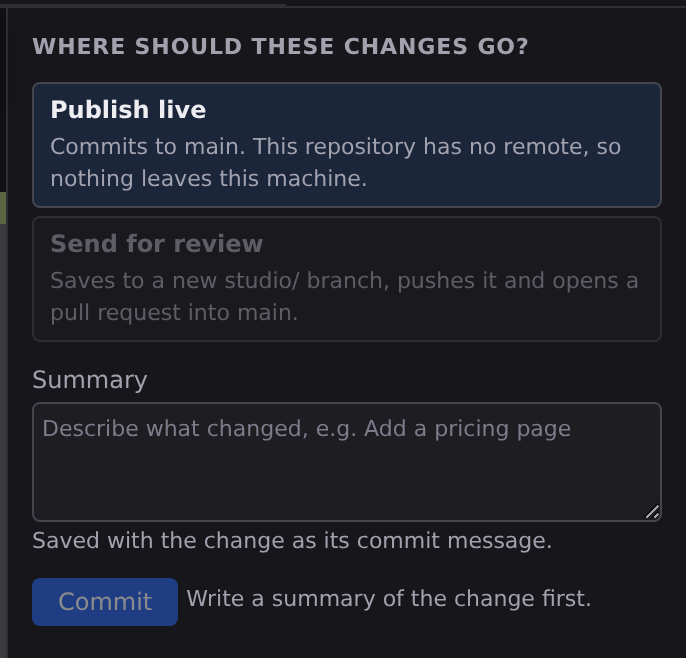
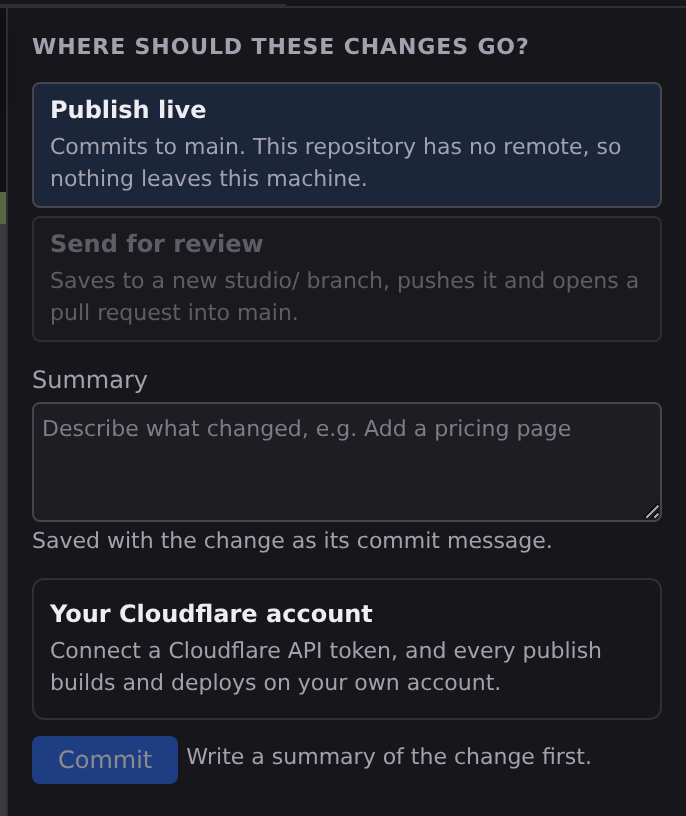
feat(studio): Review changes says where the site is hosted, and Hosting numbers its setup steps (#587)

diff --git a/packages/studio/tests/publish-workspace.test.ts b/packages/studio/tests/publish-workspace.test.ts
@@ -680,6 +680,13 @@ describe("Hosting", () => {
     expect(part("hosting-summary")).not.toBeNull();
   });
 
+  test("Review changes says where a publish goes, beside the choice of destination", async () => {
+    install({ cfApi: async () => [], cfConnect: async () => null });
+    await drawReview();
+    expect(part("host-card-name")?.textContent).toBe("Jx Cloud, on Cloudflare");
+    expect(part("host-card-text")?.textContent).toContain("every publish builds and deploys");
+  });
+
   test("Deploys with a reachable host and no provider says to connect one", async () => {
     install({ cfApi: async () => [] });
     shell.publish.tab = "deploys";
@@ -687,6 +694,25 @@ describe("Hosting", () => {
     expect(host.querySelector('[part="deploy-history"] [part="empty-message"]')?.textContent).toBe(
       "Connect a host under Hosting, and every deployment it makes is listed here.",
     );
+  });
+
+  test("Hosting is three numbered steps, each saying whether it is done", async () => {
+    shell.publish.tab = "hosting";
+    current = repo(FILES, { remotes: [] });
+    const { refreshGitStatus } = await import("../src/publish/source-control");
+    await refreshGitStatus();
+    await draw();
+    expect(part("setup-title")?.textContent).toBe("Set up publishing");
+    expect(parts("step-number").map((n) => n.textContent)).toEqual(["1", "2", "3"]);
+    // No remote, no host, and no address yet: nothing is done.
+    expect(parts("step-state").map((mark) => mark.dataset.state)).toEqual(["todo", "todo", "todo"]);
+    pw.detachPublishWorkspace("primary");
+    current = repo(FILES);
+    const { projectState } = await import("../src/state");
+    projectState!.projectConfig!.url = "https://example.com";
+    await refreshGitStatus();
+    await draw();
+    expect(parts("step-state").map((mark) => mark.textContent)).toEqual(["Done", "To do", "Done"]);
   });
 
   test("where the project is saved follows the repository's state", async () => {

diff --git a/packages/studio/src/publish/publish-workspace.ts b/packages/studio/src/publish/publish-workspace.ts
@@ -96,13 +96,14 @@ import type {
   CommandButtonRow,
   DeploymentRow,
   PublishCheckRow,
+  PublishLayout,
   PublishWorkspaceActions,
   PublishWorkspaceSurfaceHandle,
-  PublishLayout,
   PublishWorkspaceView,
   ReviewChangeView,
   ReviewItemRow,
   ReviewNoticeView,
+  SetupStepState,
 } from "../surfaces/publish-workspace";
 
 // ─── Deployments ─────────────────────────────────────────────────────────────
@@ -605,6 +606,11 @@ function sourceCommandIds(): string[] {
   return platformHostsGit() ? ["git.signInToGithub"] : ["git.push", "git.signInToGithub"];
 }
 
+/** A Hosting setup step as its mark draws it. */
+function setupStep(done: boolean): SetupStepState {
+  return done ? { label: "Done", state: "done" } : { label: "To do", state: "todo" };
+}
+
 /** The host block: which host, and what connecting it buys. */
 function hostView(): Pick<PublishWorkspaceView, "hostSummary" | "hostTitle"> {
   const deploy = currentDeploy();
@@ -674,6 +680,10 @@ export function publishWorkspaceView(
   return {
     ...deploysState(),
     ...hostView(),
+    // A host builds from a remote; a host whose git is the remote's has one by construction.
+    stepAddress: setupStep(address !== ""),
+    stepHosted: setupStep(deploy !== undefined),
+    stepSaved: setupStep(hosted || remote !== ""),
     allIncluded: count > 0 && staged === count,
     blocker,
     branchNote: hosted

diff --git a/packages/studio/src/surfaces/publish-workspace.ts b/packages/studio/src/surfaces/publish-workspace.ts
@@ -133,6 +133,12 @@ export interface BranchRow {
 }
 
 /** Everything the document draws, as one value. */
+/** One Hosting setup step's state, and the word it is marked with. */
+export interface SetupStepState {
+  state: "done" | "todo";
+  label: string;
+}
+
 export interface PublishWorkspaceView {
   /** Which part this mount draws: the home, or one region of Review changes' stage. */
   layout: PublishLayout;
@@ -209,6 +215,13 @@ export interface PublishWorkspaceView {
   sourceCommands: CommandButtonRow[];
   hostTitle: string;
   hostSummary: string;
+  /**
+   * Hosting's three setup steps (studio.md §22.8), each `done` or `todo`: the project saved where a
+   * host can build it, a host connected, and an address for the site.
+   */
+  stepSaved: SetupStepState;
+  stepHosted: SetupStepState;
+  stepAddress: SetupStepState;
   hostCommands: CommandButtonRow[];
   domainState: "set" | "none";
   domain: string;
@@ -299,6 +312,9 @@ export function emptyPublishWorkspaceView(): PublishWorkspaceView {
     hostCommands: [],
     hostSummary: "",
     hostTitle: "",
+    stepAddress: { label: "", state: "todo" },
+    stepHosted: { label: "", state: "todo" },
+    stepSaved: { label: "", state: "todo" },
     includedLabel: "",
     items: [],
     lastUpdated: "",

diff --git a/specs/studio.md b/specs/studio.md
@@ -2354,7 +2354,7 @@ The Styles workspace is Project Styles (§7) given a frame: `project.json` as th
 
 **The Publish home** is a surface (`src/surfaces/publish-workspace.json`) with four sub-tabs.
 
-**Review changes** is three columns under the workspace's heading row, with the comparison of one change in the middle. **The list** on the left is the git status (every untracked file on its own rather than as its collapsed folder), each change stated as the thing it is on the site rather than as a file: a tag for what happened (**NEW**, **EDIT**, **DELETE** or **RENAME**, a word on a tint, never colour alone), the name the Site panel gives it (a page by its route, **Home** or **Pricing**; an entry by its file; a component, a template or a stylesheet by its name; media and other files by their file name), and its kind with its address where it has one (**Page · /pricing**, **Post · Posts**, **Component**, **Template**, **Media**, **Project file**), pages first, then entries, components, templates, styles, media and the project's other files (`publish/review-changes.ts`). Each row's checkbox stages or unstages it and its Discard asks first; picking the row shows it in the centre, and the list's foot holds the checks and the remote's controls. **The centre** heads the change with its tag, its name, its address and one sentence saying what publishing it does ("A new page. It goes live at /pricing."; for a component or a template, that every page using it changes with it), with the Compare bar beside it (§21.2), and below them the comparison itself: the two artboards, named **Last published** and **After publishing** (**Not published yet** for a new file, **Removed by publishing** for a deleted one), fitted to the column's width each time a change arrives, or the Code half (§21.3). A change with no comparison shows why instead: an image is shown as the image, and a rename says it has no comparison (§21.4). The centre always shows a change: the one picked, or the first when the pick has been published, discarded or never made. It is the Publish home tab itself, put in `git-diff` while Review changes has a change to show and back in its own mode otherwise, so there is no comparison tab to leave and nothing in Publish needs **Back**; the stage frames the boards between the two columns, which scroll themselves and take neither the canvas's pan nor its zoom, and draws no zoom pod, because the publish column's primary button stands where it would float. The artboards are drawn as a view of the compared file, so a page is wrapped in its layout and its components resolve from its path. Loading, a project with no repository, nothing to publish and the other three sub-tabs are the home's own surface. A change is included (staged) the first time Review changes shows it, so a change set nobody has curated opens with every change included, as the quick dialog publishes it; a file the author then leaves out stays out, and a path that leaves the status (committed or discarded) is new again when it next changes. The checks (the deploy checklist's next step, and a build check where the host can run one) are each marked by a kit-manifest icon for its state whose accessible name says the state in words (Passed, To do, Running, Failed, Not checked yet), never by a text glyph. **The publish column** on the right holds the destination, the summary (the commit message), one primary button whose words say what it will do, and the workspace's working and failure lines. **Publish live** commits what is included to the current branch and ships it: through the deploy (`runDeploy`, which pushes and asks Cloudflare what it built) when a provider is connected, else by pushing to the remote, else by committing alone, and its note says which. **Send for review** creates a branch named `studio/<slug of the summary>`, commits to it, pushes it and opens a pull request into the branch the author was on through the platform's `createPullRequest`. Once a summary is written, its note names the branch it will create. On a host where a branch is a session (`gitHosted`), the commit lands on the session's own branch and the pull request is opened from it into the repository's default branch, which the host reports as `defaultBranch` in `gitBranches`. A commit on the default branch there is live as it is made, so review from it never commits to it: on a host that declares `gitCommitBranch` the change set is committed as the `studio/<slug>` branch, parented on the commit the session's edits were made against, and taken out of the session, and the pull request is opened from that branch into the default branch, which the note says ("Saves to `studio/<slug>` on GitHub…"). On a host without `gitCommitBranch`, review is refused, with the reason, while the session is on the default branch; it is refused on every host while the host has not said which branch the default is. The verbs are the Source Control panel's, moved out of the panel into a flow module the workspace owns (§5.5), so there is one list of them (`studio-ui-guidelines.md` §12.5).
+**Review changes** is three columns under the workspace's heading row, with the comparison of one change in the middle. **The list** on the left is the git status (every untracked file on its own rather than as its collapsed folder), each change stated as the thing it is on the site rather than as a file: a tag for what happened (**NEW**, **EDIT**, **DELETE** or **RENAME**, a word on a tint, never colour alone), the name the Site panel gives it (a page by its route, **Home** or **Pricing**; an entry by its file; a component, a template or a stylesheet by its name; media and other files by their file name), and its kind with its address where it has one (**Page · /pricing**, **Post · Posts**, **Component**, **Template**, **Media**, **Project file**), pages first, then entries, components, templates, styles, media and the project's other files (`publish/review-changes.ts`). Each row's checkbox stages or unstages it and its Discard asks first; picking the row shows it in the centre, and the list's foot holds the checks and the remote's controls. **The centre** heads the change with its tag, its name, its address and one sentence saying what publishing it does ("A new page. It goes live at /pricing."; for a component or a template, that every page using it changes with it), with the Compare bar beside it (§21.2), and below them the comparison itself: the two artboards, named **Last published** and **After publishing** (**Not published yet** for a new file, **Removed by publishing** for a deleted one), fitted to the column's width each time a change arrives, or the Code half (§21.3). A change with no comparison shows why instead: an image is shown as the image, and a rename says it has no comparison (§21.4). The centre always shows a change: the one picked, or the first when the pick has been published, discarded or never made. It is the Publish home tab itself, put in `git-diff` while Review changes has a change to show and back in its own mode otherwise, so there is no comparison tab to leave and nothing in Publish needs **Back**; the stage frames the boards between the two columns, which scroll themselves and take neither the canvas's pan nor its zoom, and draws no zoom pod, because the publish column's primary button stands where it would float. The artboards are drawn as a view of the compared file, so a page is wrapped in its layout and its components resolve from its path. Loading, a project with no repository, nothing to publish and the other three sub-tabs are the home's own surface. A change is included (staged) the first time Review changes shows it, so a change set nobody has curated opens with every change included, as the quick dialog publishes it; a file the author then leaves out stays out, and a path that leaves the status (committed or discarded) is new again when it next changes. The checks (the deploy checklist's next step, and a build check where the host can run one) are each marked by a kit-manifest icon for its state whose accessible name says the state in words (Passed, To do, Running, Failed, Not checked yet), never by a text glyph. **The publish column** on the right holds the destination, the summary (the commit message), a card saying where the site is hosted (the host Hosting names, and what publishing there does, the same title and sentence as Publish › Hosting, so the destination is never chosen blind), one primary button whose words say what it will do, and the workspace's working and failure lines. **Publish live** commits what is included to the current branch and ships it: through the deploy (`runDeploy`, which pushes and asks Cloudflare what it built) when a provider is connected, else by pushing to the remote, else by committing alone, and its note says which. **Send for review** creates a branch named `studio/<slug of the summary>`, commits to it, pushes it and opens a pull request into the branch the author was on through the platform's `createPullRequest`. Once a summary is written, its note names the branch it will create. On a host where a branch is a session (`gitHosted`), the commit lands on the session's own branch and the pull request is opened from it into the repository's default branch, which the host reports as `defaultBranch` in `gitBranches`. A commit on the default branch there is live as it is made, so review from it never commits to it: on a host that declares `gitCommitBranch` the change set is committed as the `studio/<slug>` branch, parented on the commit the session's edits were made against, and taken out of the session, and the pull request is opened from that branch into the default branch, which the note says ("Saves to `studio/<slug>` on GitHub…"). On a host without `gitCommitBranch`, review is refused, with the reason, while the session is on the default branch; it is refused on every host while the host has not said which branch the default is. The verbs are the Source Control panel's, moved out of the panel into a flow module the workspace owns (§5.5), so there is one list of them (`studio-ui-guidelines.md` §12.5).
 
 **A branch that moved is not a dead end.** On a host where a branch is a session, a publish whose commit the remote's newer changes overlap is refused with the `conflict` the backend sends (`pull_conflict`, carrying `conflicts`, the paths both sides changed). Where the host declares `gitCommitBranch`, Studio does not stop at the refusal: it offers **Publish to a New Branch** (`showPromptDialog`), naming the branch that moved and up to three of the shared files, with the branch name prefilled as Send for review would name it and editable. Confirming commits the change set to that branch through `gitCommitBranch` (which cannot conflict, because the commit's parent is the base the edits were made on, and which refuses a name that already exists rather than move a branch), opens a pull request from it into the branch that moved where the host has `createPullRequest`, says so with the pull request's link, and pulls the session's branch up to date, now that the overlapping edits have left it. A pull that still cannot fast-forward is not reported as the publish failing. Declining keeps the change set, the summary and the refusal's sentence on screen. A host without `gitCommitBranch` reports the refusal alone. A file whose working copy is already byte for byte what the remote holds (the same edit published twice, or a commit whose ref update landed after the request that made it failed) is not a conflict at all: the backend adopts it as clean when it pulls, and a commit that finds every file already there commits nothing (`desktop.md` §5).
 
@@ -2366,7 +2366,7 @@ The Styles workspace is Project Styles (§7) given a frame: `project.json` as th
 
 **Branches** is the branch list with checkout and create, and ahead/behind for the current branch. On a host where a branch is a session (the cloud), checkout reloads the window, and the action says so and asks first.
 
-**Hosting** is where the site is published from and to: its source (the remote, and the GitHub connection), its host (Jx Cloud or Cloudflare, through the existing connect flows), its build adapter (moved from Project Settings › Deploy, §17.1, and redrawn when `build.adapter` changes anywhere else), its domain (the production URL as Deploys reads it, with a sentence saying where it came from; a custom domain is added on the host's dashboard), and the deploy checklist. Each command it offers is drawn from its record, disabled with the record's reason.
+**Hosting** is where the site is published from and to: its source (the remote, and the GitHub connection), its host (Jx Cloud or Cloudflare, through the existing connect flows), its build adapter (moved from Project Settings › Deploy, §17.1, and redrawn when `build.adapter` changes anywhere else), its domain (the production URL as Deploys reads it, with a sentence saying where it came from; a custom domain is added on the host's dashboard), and the deploy checklist. Each command it offers is drawn from its record, disabled with the record's reason. It is headed **Set up publishing** ("Three steps, made once. You can change any of them later.") and numbers the three setup steps as the Publish-Setup board does: **1** where the project is saved, **2** where the site is hosted (how it is built follows it, unnumbered), **3** its address, each marked **Done** or **To do** in words beside its heading: saved once the repository has a remote, or the host's git is the remote's; hosted once a host is connected; the address once there is one (`setupStep` in `publish/publish-workspace.ts`).
 
 **Quick publish.** `publish.quick`, the chevron beside the Publish tab (§22.2), opens a popover that hangs from the chevron (a `jx-popover` shown from it, so the platform owns light dismissal, Escape, focus and placement; run from the palette it hangs from the same chevron). It holds the change count with **Review all**, which switches to Review changes; the first four changes named as Review changes names them (a NEW, EDIT, DELETE or RENAME tag and the site's name for the thing, its file as the row's tooltip), with what a changed template touches beside it, "affects 4 pages", counted when the popover opens by reading which routed pages are drawn in that template directly or through a template drawn in it, their own `$layout` else the project's `defaults.layout` (`pagesDrawnIn` in `content/collection-pages.ts`); the rest summed up by kind, "+ 1 post, 2 images"; the destination choice, the summary, the checks line and **Publish now**. Publish now takes every change, not only the included ones, because the popover lists all of them and offers no checkbox to leave one out (`publish/publish-quick.ts` over `surfaces/publish-quick.json`). The `git.*` and `publish.*` command ids keep their names, because the deploy checklist, `runDeploy` and the GitHub flows run them by id.
 

diff --git a/docs/studio/publish.md b/docs/studio/publish.md
@@ -28,7 +28,7 @@ Shipping a Jx site is part of the Studio flow, with no terminal and no separate 
 ## How it goes live
 
 1. In **Publish › Review changes**, every change is included the first time it shows up. Uncheck any file you want to leave out of this publish (it stays out until you check it again), write a one-line summary, and choose where the changes go.
-2. Click the button under the summary. Its words say what it will do: **Publish live** when a host is connected, **Commit and push** when there is a remote but no host, **Commit** when the project has no remote yet, **Send for review** for a pull request.
+2. Check the card under the summary, which says where your site is hosted and what publishing there does, then click the button below it. Its words say what it will do: **Publish live** when a host is connected, **Commit and push** when there is a remote but no host, **Commit** when the project has no remote yet, **Send for review** for a pull request.
 3. The push wakes your host (or CI), which builds the project into plain HTML, CSS, and a little JavaScript, and serves it from a CDN. Your site is live.
 
 **Quick publish.** The small arrow beside the Publish tab opens a panel under it with the change count, the first few changes named the way Review changes names them (**NEW Pricing**, **EDIT Base**), the rest summed up by kind ("+ 1 post, 2 images"), the destination, a summary field and one line of checks. A changed template says how many pages it changes, such as "affects 4 pages". **Publish now** takes every change to the destination you picked; **Review all** opens Review changes instead, where you can leave a change out. Click anywhere else or press :kbd[Esc] to close it.
@@ -67,7 +67,7 @@ Confirm, and Studio moves you onto the new branch, pushes it, and opens a pull r
 - **Review changes** is three columns: your changes on the left, each named as your site names it (a page by its name and address, a post by its title) with a tag saying what happened, the comparison of the change you pick in the middle, and the destination, the summary and the publish button on the right. The checks sit at the foot of the list. See **[Source control](/docs/studio/publish/source-control)**.
 - **Deploys** is the live site (its address and its latest deployment), any deploy running now with its steps, every deployment your host reports, and the branch previews: the deployments built from a branch rather than for production. The address is the one your host reports, or else the **Production URL** in Project Settings › Overview. Until a host is connected, Deploys offers **Set Up Publishing** rather than **Deploy**.
 - **Branches** lists your branches, with **Switch** on every one but the current, which shows how far ahead or behind its remote it is. **New branch** asks for a name and creates it from the one you are on.
-- **Hosting** is where the site is published from and to: where the project is saved (git, and the GitHub connection), where it is hosted (Jx Cloud or your own Cloudflare account), how it is built (the build adapter) and its address (the host's, or the Production URL you set), with the deploy checklist underneath. **Open Deployment Dashboard** appears once a host is connected.
+- **Hosting** sets up publishing in three numbered steps, each marked **Done** or **To do**. It is where the site is published from and to: where the project is saved (git, and the GitHub connection), where it is hosted (Jx Cloud or your own Cloudflare account), how it is built (the build adapter) and its address (the host's, or the Production URL you set), with the deploy checklist underneath. **Open Deployment Dashboard** appears once a host is connected.
 
 ## The checks
 

diff --git a/specs/changes/studio-ad8b98aa.md b/specs/changes/studio-ad8b98aa.md
@@ -1,0 +1,6 @@
+---
+spec: studio.md
+level: minor
+---
+
+Review changes' publish column says where the site is hosted, beside the choice of destination (§22.8).

diff --git a/specs/changes/studio-6d77fbc6.md b/specs/changes/studio-6d77fbc6.md
@@ -1,0 +1,6 @@
+---
+spec: studio.md
+level: minor
+---
+
+Publish › Hosting numbers its three setup steps, each marked Done or To do (§22.8).
